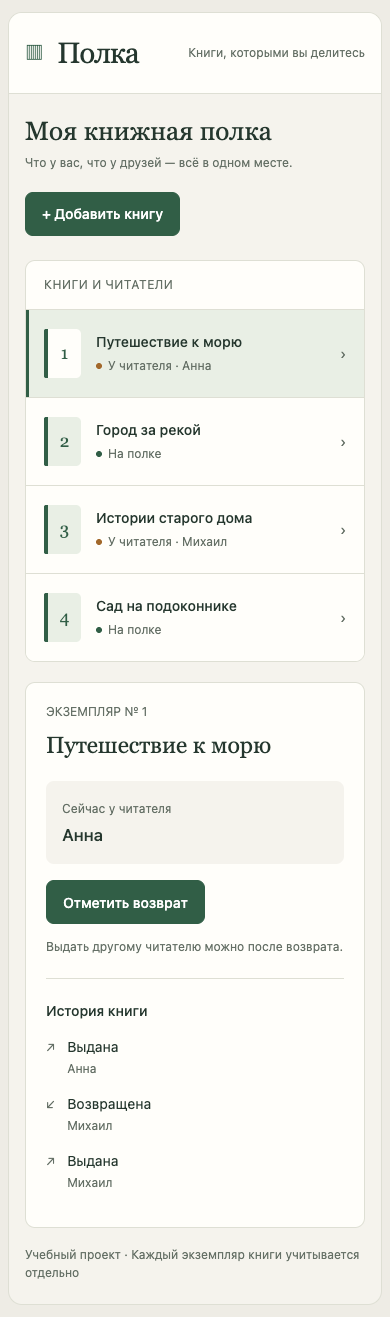
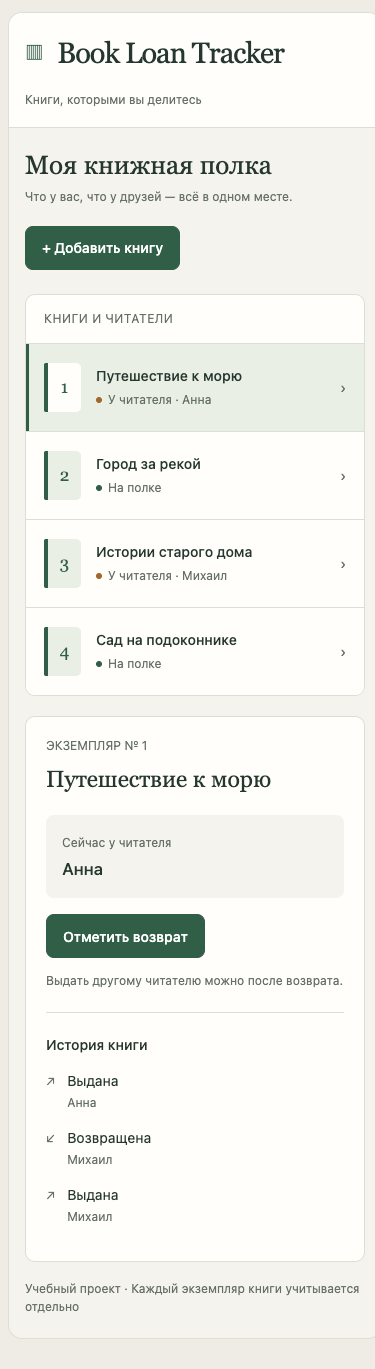
Согласовать общую учебную основу Book Loan Tracker

diff --git a/templates/base.html b/templates/base.html
@@ -3,8 +3,9 @@
     <head>
         <meta charset="utf-8">
         <meta name="viewport" content="width=device-width, initial-scale=1">
-        <meta name="description" content="Полка — учёт книг, которыми вы делитесь.">
-        <title>Полка — кому выдали книгу</title>
+        <meta name="description"
+              content="Book Loan Tracker — учёт книг, которыми вы делитесь.">
+        <title>Book Loan Tracker — кому выдали книгу</title>
         <link rel="stylesheet" href="{{ url_for('static', filename='app.css') }}">
     </head>
     <body>
@@ -12,7 +13,7 @@
             <header class="header">
                 <a class="brand"
                    href="{{ url_for('index') }}"><span aria-hidden="true"
-      class="symbol">▥</span>Полка</a>
+      class="symbol">▥</span>Book Loan Tracker</a>
                 <span class="caption">Книги, которыми вы делитесь</span>
             </header>
             <main class="main">

diff --git a/tests/test_web.py b/tests/test_web.py
@@ -14,7 +14,7 @@ class WebTest(unittest.TestCase):
     def setUp(self):
         self.temp = tempfile.TemporaryDirectory()
         self.addCleanup(self.temp.cleanup)
-        self.db = Path(self.temp.name) / "polka.db"
+        self.db = Path(self.temp.name) / "book-tracker.db"
         self.app = create_app(
             {"TESTING": True, "DATABASE": str(self.db), "SECRET_KEY": "test-only"}
         )
@@ -115,14 +115,21 @@ class WebTest(unittest.TestCase):
     def test_cli_and_web_share_changes(self):
         root = Path(__file__).resolve().parents[1]
         subprocess.run(
-            [sys.executable, str(root / "polka.py"), "--db", str(self.db), "add", "Книга из CLI"],
+            [
+                sys.executable,
+                str(root / "book_tracker.py"),
+                "--db",
+                str(self.db),
+                "add",
+                "Книга из CLI",
+            ],
             check=True,
             capture_output=True,
         )
         self.assertIn("Книга из CLI", self.client.get("/").text)
         self.post("/books/1/lend", borrower="Анна")
         result = subprocess.run(
-            [sys.executable, str(root / "polka.py"), "--db", str(self.db), "list"],
+            [sys.executable, str(root / "book_tracker.py"), "--db", str(self.db), "list"],
             check=True,
             capture_output=True,
             text=True,

diff --git a/web.py b/web.py
@@ -1,4 +1,4 @@
-"""Веб-интерфейс «Полки»: HTML-страницы и формы, общая логика в library.py."""
+"""Веб-интерфейс Book Loan Tracker: HTML-страницы и формы, общая логика в library.py."""
 
 import os
 import secrets
@@ -13,8 +13,8 @@ import library
 def create_app(config=None):
     app = Flask(__name__)
     app.config.from_mapping(
-        DATABASE=os.environ.get("POLKA_DB", "data/polka.db"),
-        SECRET_KEY=os.environ.get("POLKA_SECRET_KEY") or secrets.token_hex(32),
+        DATABASE=os.environ.get("BOOK_TRACKER_DB", "data/book-tracker.db"),
+        SECRET_KEY=os.environ.get("BOOK_TRACKER_SECRET_KEY") or secrets.token_hex(32),
         SESSION_COOKIE_HTTPONLY=True,
         SESSION_COOKIE_SAMESITE="Lax",
         MAX_CONTENT_LENGTH=16_384,
@@ -144,7 +144,7 @@ if __name__ == "__main__":
 
     serve(
         create_app(),
-        host=os.environ.get("POLKA_HOST", "127.0.0.1"),
-        port=int(os.environ.get("POLKA_PORT", "8000")),
+        host=os.environ.get("BOOK_TRACKER_HOST", "127.0.0.1"),
+        port=int(os.environ.get("BOOK_TRACKER_PORT", "8000")),
         threads=4,
     )

diff --git a/book_tracker.py b/book_tracker.py
@@ -1,4 +1,4 @@
-"""CLI учебного приложения «Полка»."""
+"""CLI учебного приложения Book Loan Tracker."""
 
 import argparse
 import json
@@ -27,8 +27,10 @@ def demo():
 
 
 def main():
-    parser = argparse.ArgumentParser(description="Полка: учёт выданных книг")
-    parser.add_argument("--db", default="polka.db", help="файл SQLite; по умолчанию polka.db")
+    parser = argparse.ArgumentParser(description="Book Loan Tracker: учёт выданных книг")
+    parser.add_argument(
+        "--db", default="book-tracker.db", help="файл SQLite; по умолчанию book-tracker.db"
+    )
     commands = parser.add_subparsers(dest="command", required=True)
     commands.add_parser("demo", help="учебный сценарий в отдельной базе в памяти")
     commands.add_parser("list", help="список книг и текущих читателей")

diff --git a/tests/test_cli.py b/tests/test_cli.py
@@ -18,7 +18,7 @@ class CliTest(unittest.TestCase):
 
     def run_cli(self, *args, ok=True):
         result = subprocess.run(
-            [sys.executable, str(ROOT / "polka.py"), "--db", str(self.db), *args],
+            [sys.executable, str(ROOT / "book_tracker.py"), "--db", str(self.db), *args],
             capture_output=True,
             text=True,
             encoding="utf-8",

diff --git a/README.md b/README.md
@@ -41,7 +41,7 @@
 
 ```bash
 docker compose up --build -d
-docker compose exec web python polka.py --db /app/data/polka.db seed
+docker compose exec web python book_tracker.py --db /app/data/book-tracker.db seed
 ```
 
 Откройте [http://localhost:8000](http://localhost:8000).
@@ -49,7 +49,7 @@ docker compose exec web python polka.py --db /app/data/polka.db seed
 Если записи уже есть, команда завершится отказом и не изменит их.
 Без `seed` приложение откроется с пустой полкой.
 
-База хранится в именованном Docker volume `polka-data`.
+База хранится в именованном Docker volume `book-loan-tracker-data`.
 Остановить приложение, сохранив данные:
 
 ```bash
@@ -68,7 +68,7 @@ python3 -m venv .venv
 source .venv/bin/activate
 python -m pip install -r requirements-dev.txt
 python -c "from pathlib import Path; Path('data').mkdir(exist_ok=True)"
-python polka.py --db data/polka.db seed
+python book_tracker.py --db data/book-tracker.db seed
 python web.py
 ```
 
@@ -113,7 +113,7 @@ python -m djlint templates --check
 Проверить в Linux-контейнере без локальной установки Python:
 
 ```bash
-docker build --target checks -t polka-checks .
+docker build --target checks -t book-loan-tracker-checks .
 ```
 
 Финальный образ приложения не включает линтеры и тестовые зависимости.
@@ -129,13 +129,13 @@ docker build --target checks -t polka-checks .
 | Какие команды терминала доступны? | [Справочник CLI](docs/cli.md) |
 | Какие HTTP-запросы принимает приложение? | [Маршруты и ответы](docs/http.md) |
 | Где реализованы правила выдачи и возврата? | [library.py](library.py): `lend()`, `give_back()` |
-| Где находятся точки входа? | [web.py](web.py): `create_app()`; [polka.py](polka.py): `main()` |
+| Где находятся точки входа? | [web.py](web.py): `create_app()`; [book_tracker.py](book_tracker.py): `main()` |
 | Где HTML и оформление? | [Шаблон страницы](templates/index.html), [CSS](static/app.css) |
 | Где проверки? | [Тесты веб-интерфейса](tests/test_web.py), [тесты CLI](tests/test_cli.py) |
 | Где создаются таблицы? | [Начальная SQL-схема](migrations/001_initial.sql) |
 | Почему так организовано хранение? | [Описание решения](docs/decisions/001-storage.md) |
 
-Для команд CLI источник точных имён — `python polka.py --help`, для HTTP-маршрутов —
+Для команд CLI источник точных имён — `python book_tracker.py --help`, для HTTP-маршрутов —
 `web.py`, для переменных окружения — `create_app()` и блок запуска в `web.py`.
 Схема базы находится в `migrations/001_initial.sql`, список зависимостей — в requirements-файлах.
 При расхождении документации с поведением воспроизведите его и исправьте код или описание.

diff --git a/docs/cli.md b/docs/cli.md
@@ -1,15 +1,15 @@
 # Команды и конфигурация
 
-CLI — интерфейс командной строки. У «Полки» есть также веб-интерфейс; этот документ описывает команды терминала.
+CLI — интерфейс командной строки. У Book Loan Tracker есть также веб-интерфейс; этот документ описывает команды терминала.
 
 Запускать из корня проекта. Требуется Python 3.14 с модулем `sqlite3`. CLI использует стандартную библиотеку; зависимости веб-версии устанавливаются отдельно, см. [инструкцию](development.md). Проверенные среды: macOS ARM64 и Linux ARM64 в Docker, Python 3.14.6. Другие среды отдельно не проверялись.
 
 ```bash
-python3 polka.py --help
-python3 polka.py lend --help
+python3 book_tracker.py --help
+python3 book_tracker.py lend --help
 ```
 
-| Команда после `python3 polka.py` | Действие |
+| Команда после `python3 book_tracker.py` | Действие |
 | --- | --- |
 | `add "Название"` | Добавить экземпляр, вывести его номер |
 | `list` | Вывести книги, номера и текущих читателей в JSON — текстовом формате структурированных данных |
@@ -26,10 +26,10 @@ python3 polka.py lend --help
 Единственная настройка — `--db`. Пишите её перед именем команды:
 
 ```bash
-python3 polka.py --db practice.db list
+python3 book_tracker.py --db practice.db list
 ```
 
-По умолчанию используется `polka.db` в текущем каталоге терминала. Файл создаётся автоматически, каталог должен существовать и быть доступен для записи. CLI не читает переменные окружения. Для общей с веб-интерфейсом базы передайте `--db data/polka.db`. Демо игнорирует `--db` и всегда работает в отдельной базе в памяти.
+По умолчанию используется `book-tracker.db` в текущем каталоге терминала. Файл создаётся автоматически, каталог должен существовать и быть доступен для записи. CLI не читает переменные окружения. Для общей с веб-интерфейсом базы передайте `--db data/book-tracker.db`. Демо игнорирует `--db` и всегда работает в отдельной базе в памяти.
 
 ## Ошибки
 

diff --git a/docs/demo.md b/docs/demo.md
@@ -13,8 +13,8 @@
 
 ```bash
 python -c "from pathlib import Path; Path('data').mkdir(exist_ok=True)"
-python polka.py --db data/demo.db seed
-POLKA_DB=data/demo.db python web.py
+python book_tracker.py --db data/demo.db seed
+BOOK_TRACKER_DB=data/demo.db python web.py
 ```
 
 Если `data/demo.db` уже содержит записи, выберите другое имя. `seed` не очищает базу.
@@ -49,14 +49,14 @@ POLKA_DB=data/demo.db python web.py
 
 При ширине 390 пикселей список и сведения о книге располагаются друг под другом.
 
-![Полка на узком экране](screenshots/shelf-mobile.png)
+![Book Loan Tracker на узком экране](screenshots/shelf-mobile.png)
 
 ## Изолированное демо CLI
 
 Команда не меняет выбранный файл данных и каждый раз использует отдельную базу в памяти:
 
 ```bash
-python polka.py demo
+python book_tracker.py demo
 ```
 
 Ожидаемый вывод:
@@ -77,19 +77,19 @@ python polka.py demo
 Номер 1 в командах подходит для первой книги новой базы.
 
 ```bash
-python polka.py --db practice.db add "Учебная книга"
-python polka.py --db practice.db lend 1 "Читатель А"
-python polka.py --db practice.db list
-python polka.py --db practice.db lend 1 "Читатель Б"
+python book_tracker.py --db practice.db add "Учебная книга"
+python book_tracker.py --db practice.db lend 1 "Читатель А"
+python book_tracker.py --db practice.db list
+python book_tracker.py --db practice.db lend 1 "Читатель Б"
 ```
 
 Последняя команда должна завершиться с кодом 1 и сообщением «Книга уже выдана».
 Выполните оставшиеся команды отдельно:
 
 ```bash
-python polka.py --db practice.db list
-python polka.py --db practice.db return 1
-python polka.py --db practice.db history 1
+python book_tracker.py --db practice.db list
+python book_tracker.py --db practice.db return 1
+python book_tracker.py --db practice.db history 1
 ```
 
 После отказа книга по-прежнему у Читателя А. После возврата история содержит два события:

diff --git a/WORKSHOP.md b/WORKSHOP.md
@@ -1,6 +1,6 @@
 # Практикум: один проект, разные README
 
-«Полка» — готовый учебный пример для написания документации. При использовании указывайте происхождение основы; ваш результат этой практики — README, а не авторство готовой программы.
+Book Loan Tracker — готовый учебный пример для написания документации. При использовании указывайте происхождение основы; ваш результат этой практики — README, а не авторство готовой программы.
 
 Ветки отличаются **только файлом README.md**. Код, тесты и документация одинаковы. `main` содержит итоговый вариант. Плохие варианты нужны для разбора ошибок, а не для запуска команд из них.
 

diff --git a/docs/architecture.md b/docs/architecture.md
@@ -1,8 +1,8 @@
-# Устройство «Полки»
+# Устройство Book Loan Tracker
 
 ```text
 Браузер → web.py → library.py → SQLite
-Терминал → polka.py ↗
+Терминал → book_tracker.py ↗
 ```
 
 [web.py](../web.py) принимает HTTP-запросы и отправляет HTML из
@@ -10,7 +10,7 @@
 [static/app.css](../static/app.css); JavaScript не используется.
 Waitress запускает веб-приложение одним процессом с четырьмя потоками.
 
-[polka.py](../polka.py) разбирает аргументы CLI. Оба интерфейса вызывают
+[book_tracker.py](../book_tracker.py) разбирает аргументы CLI. Оба интерфейса вызывают
 [library.py](../library.py): `add()`, `lend()`, `give_back()`, `history()`.
 Условия выдачи и возврата не дублируются в HTML или HTTP-обработчиках.
 

diff --git a/docs/names.md b/docs/names.md
@@ -1,6 +1,6 @@
 # Название и краткое описание: варианты
 
-Для учебного репозитория выбрано имя `book-loan-tracker`: оно прямо называет назначение программы. В интерфейсе остаётся русское название «Полка». Имя CLI-файла `polka.py` и параметры запуска от названия репозитория не зависят.
+Для учебного репозитория выбрано имя `book-loan-tracker`: оно прямо называет назначение программы. Имя CLI-файла `book_tracker.py` и параметры запуска от названия репозитория не зависят.
 
 | Имя репозитория | Заголовок | Короткое описание | Оценка |
 | --- | --- | --- | --- |
